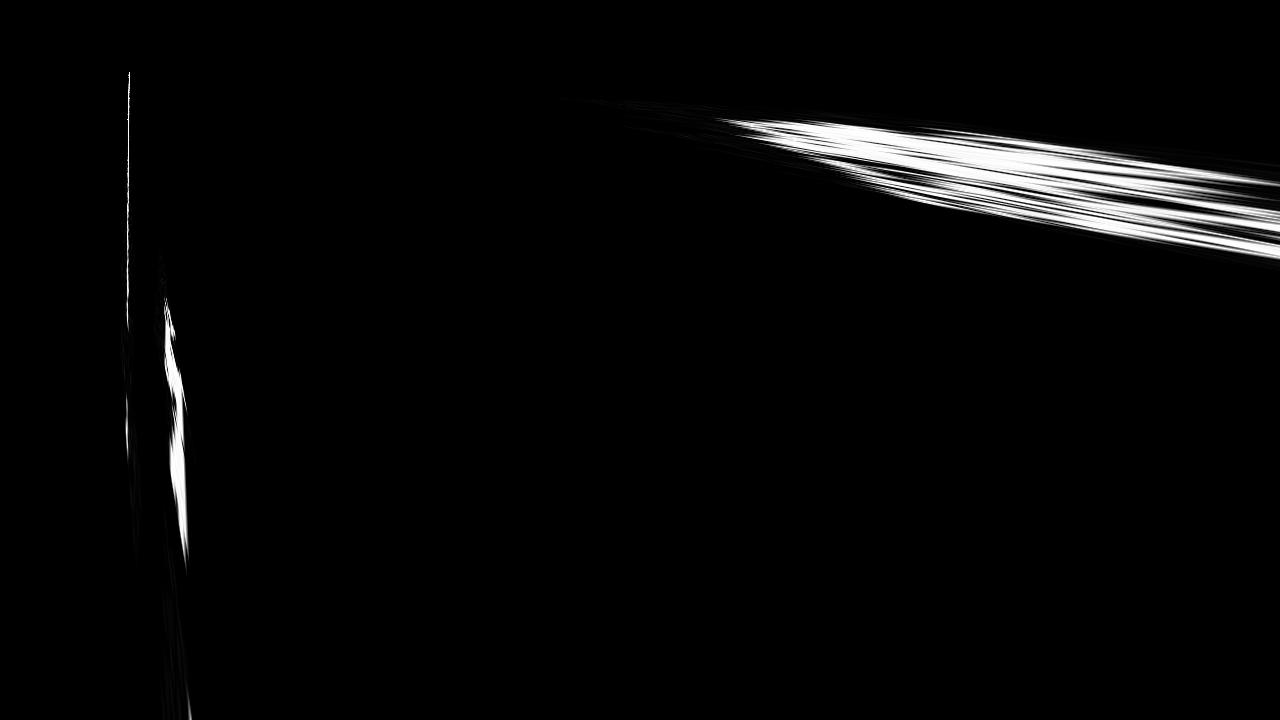
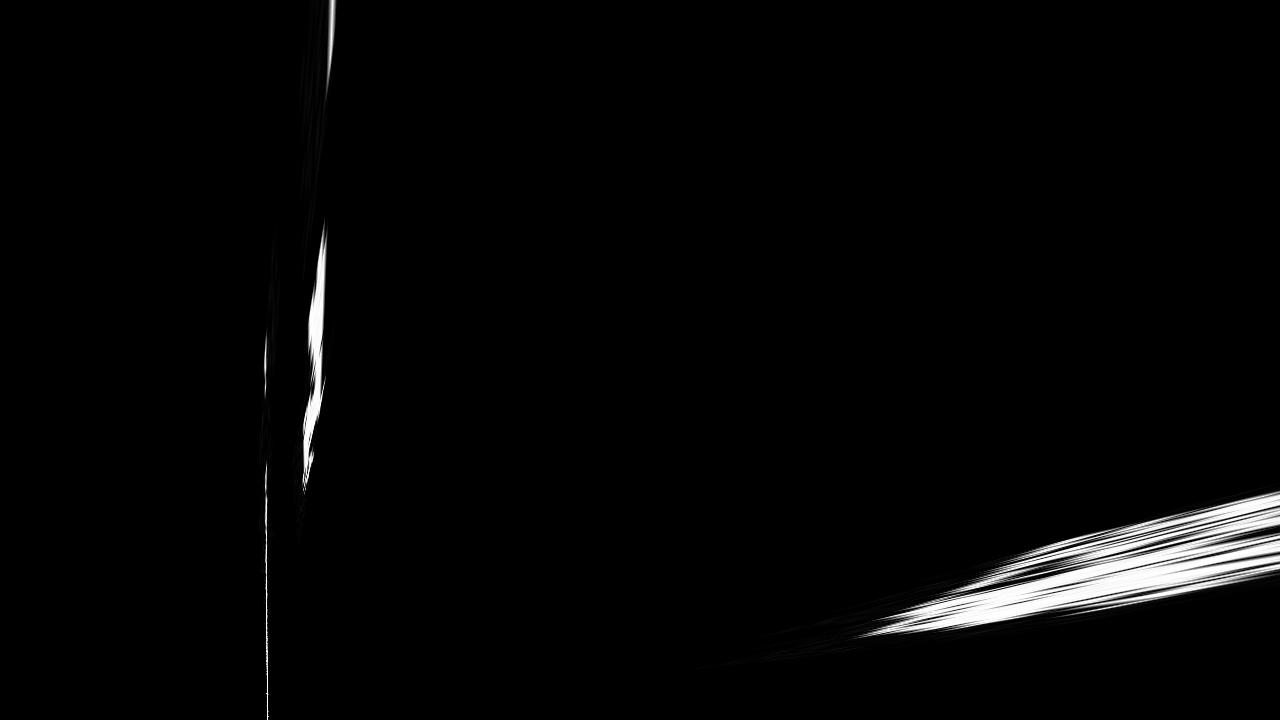
Fitting a polynomial to the lane lines

diff --git a/LanePolyFit/__init__.py b/LanePolyFit/__init__.py
@@ -4,6 +4,8 @@ Created on 7 oct. 2019
 @author: cbraeuninger
 '''
 import numpy as np
+import cv2
+import matplotlib.pyplot as plt
 
 def findStartingPoints(img):
     '''
@@ -11,24 +13,15 @@ def findStartingPoints(img):
     '''
     
     #take a histogram of the image
-    histogram = np.sum(img, axis=0)
+    histogram = np.sum(img[:,:,0], axis=0)
     #find midpoint of histogram
     midpoint = np.int(histogram.shape[0]//2)
     leftx_base = np.argmax(histogram[:midpoint])
-    rightx_base = np.argmax(histogram[midpoint:])
+    rightx_base = np.argmax(histogram[midpoint:]) + midpoint
     
     return leftx_base, rightx_base
 
-def find_lane_pixels(binary_warped):
-    # Take a histogram of the bottom half of the image
-    histogram = np.sum(binary_warped[binary_warped.shape[0]//2:,:], axis=0)
-    # Create an output image to draw on and visualize the result
-    out_img = np.dstack((binary_warped, binary_warped, binary_warped))
-    # Find the peak of the left and right halves of the histogram
-    # These will be the starting point for the left and right lines
-    midpoint = np.int(histogram.shape[0]//2)
-    leftx_base = np.argmax(histogram[:midpoint])
-    rightx_base = np.argmax(histogram[midpoint:]) + midpoint
+def findLanePixels(img, leftx_base, rightx_base, visualize=False):
 
     # HYPERPARAMETERS
     # Choose the number of sliding windows
@@ -37,6 +30,9 @@ def find_lane_pixels(binary_warped):
     margin = 100
     # Set minimum number of pixels found to recenter window
     minpix = 50
+
+    # Take only one channel of RGB image and divide by 255 to make a binary image
+    binary_warped = img[:,:,0]/255
 
     # Set height of windows - based on nwindows above and image shape
     window_height = np.int(binary_warped.shape[0]//nwindows)
@@ -63,11 +59,12 @@ def find_lane_pixels(binary_warped):
         win_xright_low = rightx_current - margin
         win_xright_high = rightx_current + margin
         
-        # Draw the windows on the visualization image
-        cv2.rectangle(out_img,(win_xleft_low,win_y_low),
-        (win_xleft_high,win_y_high),(0,255,0), 2) 
-        cv2.rectangle(out_img,(win_xright_low,win_y_low),
-        (win_xright_high,win_y_high),(0,255,0), 2) 
+        if visualize:
+            # Draw the windows on the visualization image
+            cv2.rectangle(img,(win_xleft_low,win_y_low),
+            (win_xleft_high,win_y_high),(0,255,0), 2) 
+            cv2.rectangle(img,(win_xright_low,win_y_low),
+            (win_xright_high,win_y_high),(0,255,0), 2) 
         
         ### Identify the nonzero pixels in x and y within the window ###
         good_left_inds = ((nonzeroy >= win_y_low) & (nonzeroy < win_y_high) & 
@@ -79,7 +76,7 @@ def find_lane_pixels(binary_warped):
         left_lane_inds.append(good_left_inds)
         right_lane_inds.append(good_right_inds)
  
-        ### TO-DO: If you found > minpix pixels, recenter next window ###
+        ### If found > minpix pixels, recenter next window ###
         ### (`right` or `leftx_current`) on their mean position ###
         left_window = binary_warped[win_y_low:win_y_high, win_xleft_low:win_xleft_high]
         left_histogram = np.sum(left_window, axis=0)
@@ -89,7 +86,7 @@ def find_lane_pixels(binary_warped):
         right_window = binary_warped[win_y_low:win_y_high, win_xright_low:win_xright_high]
         right_histogram = np.sum(right_window, axis=0)
         if (sum(right_histogram)>minpix):
-            rightx_current = np.argmax(left_histogram)+win_xright_low
+            rightx_current = np.argmax(right_histogram)+win_xright_low
 
     # Concatenate the arrays of indices (previously was a list of lists of pixels)
     try:
@@ -104,36 +101,58 @@ def find_lane_pixels(binary_warped):
     lefty = nonzeroy[left_lane_inds] 
     rightx = nonzerox[right_lane_inds]
     righty = nonzeroy[right_lane_inds]
+    
+    img[lefty, leftx] = [255,0,0]
+    img[righty, rightx] = [0,0,255]
 
-    return leftx, lefty, rightx, righty, out_img
+    return leftx, lefty, rightx, righty, img
 
 
-def fit_polynomial(binary_warped):
+def fitPolynomial(img, visualize=False):
+    
+    #find starting points
+    leftx_base, rightx_base = findStartingPoints(img)
+    
     # Find our lane pixels first
-    leftx, lefty, rightx, righty, out_img = find_lane_pixels(binary_warped)
+    leftx, lefty, rightx, righty, out_img = findLanePixels(img, leftx_base, rightx_base, visualize)
 
-    ### TO-DO: Fit a second order polynomial to each using `np.polyfit` ###
+    ### Fit a second order polynomial to each lane ###
     left_fit = np.polyfit(lefty, leftx, 2)
     right_fit = np.polyfit(righty, rightx, 2)
 
-    # Generate x and y values for plotting
-    ploty = np.linspace(0, binary_warped.shape[0]-1, binary_warped.shape[0] )
-    try:
-        left_fitx = left_fit[0]*ploty**2 + left_fit[1]*ploty + left_fit[2]
-        right_fitx = right_fit[0]*ploty**2 + right_fit[1]*ploty + right_fit[2]
-    except TypeError:
-        # Avoids an error if `left` and `right_fit` are still none or incorrect
-        print('The function failed to fit a line!')
-        left_fitx = 1*ploty**2 + 1*ploty
-        right_fitx = 1*ploty**2 + 1*ploty
+    if visualize:
+        # Generate x and y values for plotting
+        lefty = np.linspace(0, out_img.shape[0]-1, out_img.shape[0], dtype='int')
+        righty = np.linspace(0, out_img.shape[0]-1, out_img.shape[0], dtype='int')
+        try:
+            left_fitx = (left_fit[0]*lefty**2 + left_fit[1]*lefty + left_fit[2]).astype(int)
+            right_fitx = (right_fit[0]*righty**2 + right_fit[1]*righty + right_fit[2]).astype(int)
+        except TypeError:
+            # Avoids an error if `left` and `right_fit` are still none or incorrect
+            print('The function failed to fit a line!')
+            left_fitx = (1*lefty**2 + 1*lefty).astype(int)
+            right_fitx = (1*righty**2 + 1*righty).astype(int)
+        
+        indToDelete = []
+        #remove points that are outside the image boundaries
+        for i in range(lefty.size):
+            if left_fitx[i]>=out_img.shape[1]:
+                indToDelete.append(i)
+                
+        lefty = np.delete(lefty, indToDelete)
+        left_fitx = np.delete(left_fitx, indToDelete)
+        
+        indToDelete = []
+                
+        for i in range(righty.size):
+            if right_fitx[i]>=out_img.shape[1]:
+                indToDelete.append(i)
+                
+        righty = np.delete(righty, indToDelete)
+        right_fitx = np.delete(right_fitx, indToDelete)            
 
-    ## Visualization ##
-    # Colors in the left and right lane regions
-    out_img[lefty, leftx] = [255, 0, 0]
-    out_img[righty, rightx] = [0, 0, 255]
+        # Plots the left and right polynomials on the lane lines
+        out_img[lefty, left_fitx] = [255,255,0]
+        out_img[righty, right_fitx] = [255,255,0]
 
-    # Plots the left and right polynomials on the lane lines
-    plt.plot(left_fitx, ploty, color='yellow')
-    plt.plot(right_fitx, ploty, color='yellow')
-
-    return out_img
+    return left_fit, right_fit, out_img

diff --git a/PerspectiveTransform/__init__.py b/PerspectiveTransform/__init__.py
@@ -83,8 +83,7 @@ def findPoints(lines, img_width, img_height):
     max_len_left = 0
     max_len_right = 0
     
-    #left_line = [[0],[0],[0],[0]]
-    #right_line = [[0],[0],[0],[0]]
+    # As source points take the endpoints of the longest identified line segments on the left and the right
     
     if lines is not None:
         for line in lines:
@@ -112,23 +111,23 @@ def findPoints(lines, img_width, img_height):
     #The four source points are the end points of the selected left and right line segments
     src =  np.float32([[left_line[0][0], left_line[0][1]], [left_line[0][2], left_line[0][3]],\
                        [right_line[0][0], right_line[0][1]], [right_line[0][2], right_line[0][3]]])
-    
-    #First destination point shall be at x = 10% image width and y = 10% image height
-    x1 = 0.1*img_width
-    y1 = 0.1*img_height
+        
+    #First destination point shall be at x = middle of the image - 0.5*distance of the lines
+    x1 = 0.5*img_width - 0.5*abs(right_line[0][0] - left_line[0][0])
+    y1 = img_height
     
     #Second point: Same x-coordinate and y-coordinate = y1 + max_len_left
     x2 = x1
-    y2 = y1 + max_len_left
+    y2 = y1 - max_len_left
     
-    #Third point (on right lane): x-coordinate = x1 + x-distance point 1 left lane - point 1 right lane
+    #Third point (on right lane): x-coordinate = x1 + distance of lines
     #y-coordinate = y1 + y-distance point 1 left lane - point 1 right lane
     x3 = x1 + abs(right_line[0][0] - left_line[0][0])
-    y3 = y1 + abs(right_line[0][1] - left_line[0][1])
+    y3 = abs(y1 - left_line[0][1] - right_line[0][1])
     
     #Fourth point: x-coordinate = x3, y-coordinate = y3 + max_len_right
     x4 = x3
-    y4 = y3 + max_len_right
+    y4 = abs(y3 - max_len_right)
     
     dst = np.float32([[x1, y1], [x2, y2], [x3, y3], [x4, y4]])
     

diff --git a/LanePolyFit/testLanePixels.py b/LanePolyFit/testLanePixels.py
@@ -1,0 +1,25 @@
+'''
+Created on 7 oct. 2019
+
+@author: cbraeuninger
+'''
+import glob
+import cv2
+from LanePolyFit import findLanePixels, findStartingPoints
+from VisualizationHelpers import saveResultImage
+
+#read in all binary images with names with pattern *.jpg (output of hls selection)
+images = glob.glob('../output_images/final/*.jpg')
+
+# loop over images
+for file_name in images:
+    
+    img = cv2.imread(file_name)
+
+    #find starting points
+    leftx_base, rightx_base = findStartingPoints(img)
+    
+    #find the lane pixels
+    leftx, lefty, rightx, righty, out_img = findLanePixels(img, leftx_base, rightx_base, True)
+    
+    saveResultImage(out_img, "../output_images/windows", file_name, "-windows", True)

diff --git a/LanePolyFit/testFitPolynomial.py b/LanePolyFit/testFitPolynomial.py
@@ -1,0 +1,21 @@
+'''
+Created on 7 oct. 2019
+
+@author: cbraeuninger
+'''
+import glob
+import cv2
+from LanePolyFit import fitPolynomial
+from VisualizationHelpers import saveResultImage
+
+#read in all binary images with names with pattern *.jpg (output of hls selection)
+images = glob.glob('../output_images/final/*.jpg')
+
+# loop over images
+for file_name in images:
+    
+    img = cv2.imread(file_name)
+
+    left_fit, right_fit, out_img = fitPolynomial(img, True)
+    
+    saveResultImage(out_img, "../output_images/polynomial", file_name, "-poly", True)

diff --git a/LanePolyFit/testHistogram.py b/LanePolyFit/testHistogram.py
@@ -1,0 +1,23 @@
+'''
+Created on 7 oct. 2019
+
+@author: cbraeuninger
+'''
+
+import cv2
+import matplotlib.pyplot as plt
+import numpy as np
+
+#read in image
+img = cv2.imread("../output_images/final/straight_lines1-final.jpg")
+#img = cv2.imread("../output_images/final/straight_lines2-final.jpg")
+
+#take a histogram of the image
+histogram = np.sum(img[:,:,0], axis=0)
+
+fig, ax = plt.subplots()
+x = range(histogram.shape[0])
+ax.plot(x, histogram, color='green')
+ax.imshow(img, extent=[0, img.shape[1], 0, img.shape[0]])
+plt.show()
+

diff --git a/LanePolyFit/testStartingPoints.py b/LanePolyFit/testStartingPoints.py
@@ -20,7 +20,7 @@ for file_name in images:
 
     leftx_base, right_xbase = findStartingPoints(img)
     
-    points = drawDots(img, (leftx_base,5))
-    points = drawDots(points, (right_xbase, 5), (0,0,255))
+    points = drawDots(img, (leftx_base,img.shape[0]-5))
+    points = drawDots(points, (right_xbase, img.shape[0]-5), (0,0,255))
     
     saveResultImage(points, "../output_images/starting_points", file_name, "-start", True)

diff --git a/PerspectiveTransform/testFindPoints.py b/PerspectiveTransform/testFindPoints.py
@@ -5,8 +5,6 @@ Created on 6 oct. 2019
 '''
 import glob
 import cv2
-import os
-import matplotlib.image as mpimg
 from PerspectiveTransform import houghLinesDetection, findPoints
 from VisualizationHelpers import drawDots, saveResultImage
 
